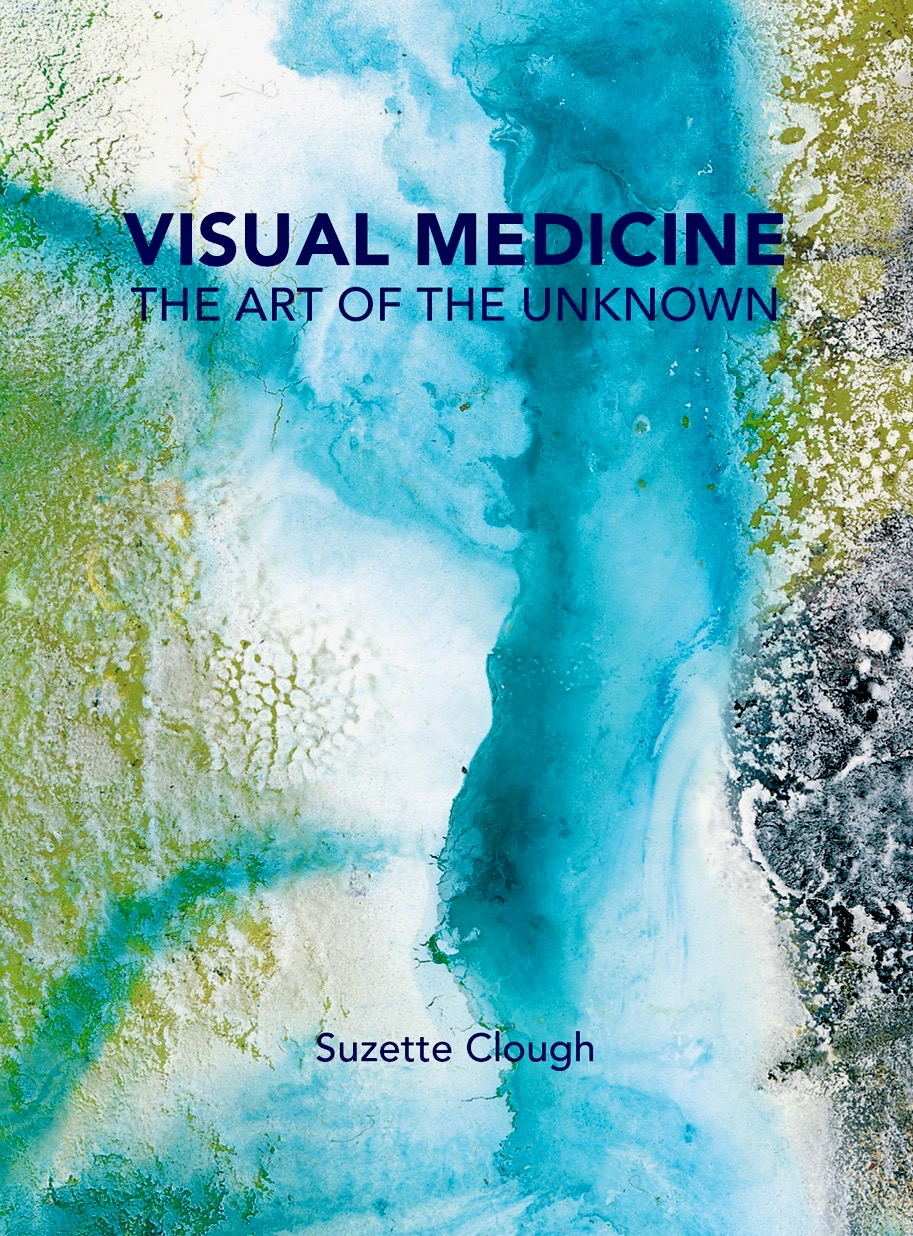
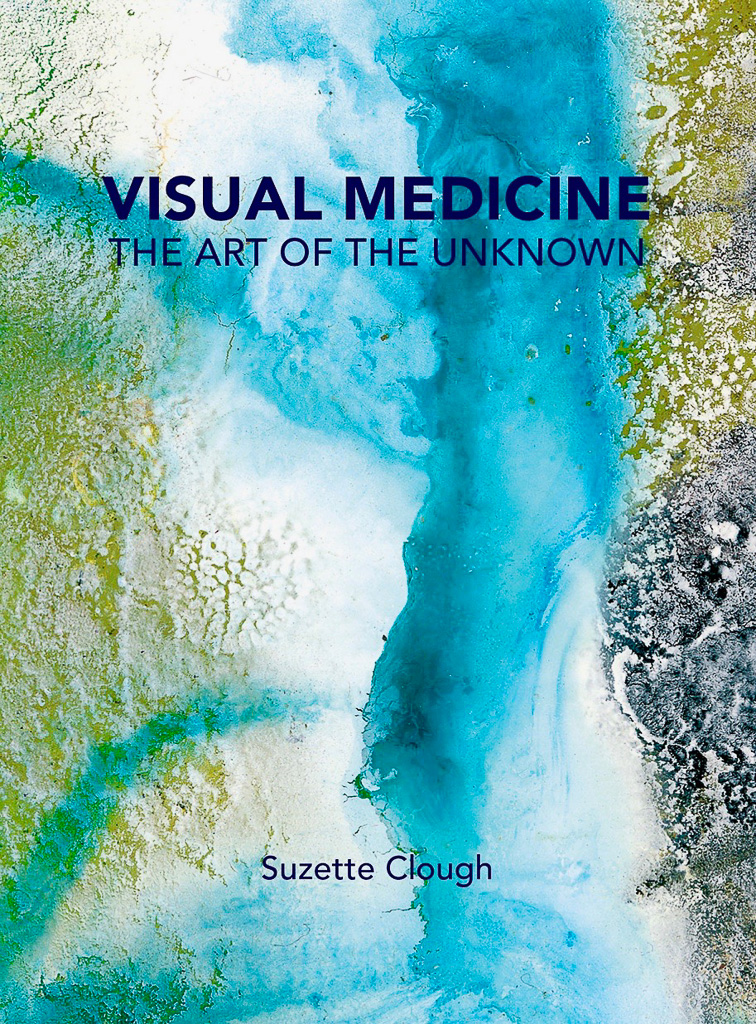
made images smaller

diff --git a/page-VM-shop-soul.html b/page-VM-shop-soul.html
@@ -194,7 +194,7 @@
               <div class="shop-product">
                 <div class="product-thumb">
                   <a href="page-VM-shop-single.html">
-                    <img src="VM_images/shop-1.png" alt="">
+                    <img src="VM_images/shop-1.jpg" alt="">
                   </a>
                   <div class="product-overlay"><a href="#"><span class="add-to-cart-loop-text">Add to cart</span><i class="add-to-cart-loop-icon"></i></a>
                   </div>
@@ -208,7 +208,7 @@
               <div class="shop-product">
                 <div class="product-thumb">
                   <a href="page-VM-shop-single.html">
-                    <img src="VM_images/shop-2.png" alt="">
+                    <img src="VM_images/shop-2.jpg" alt="">
                   </a>
                   <div class="product-overlay"><a href="#"><span class="add-to-cart-loop-text">Add to cart</span><i class="add-to-cart-loop-icon"></i></a>
                   </div>
@@ -222,7 +222,7 @@
               <div class="shop-product">
                 <div class="product-thumb">
                   <a href="page-VM-shop-single.html">
-                    <img src="VM_images/shop-3.png" alt="">
+                    <img src="VM_images/shop-3.jpg" alt="">
                   </a>
                   <div class="product-overlay"><a href="#"><span class="add-to-cart-loop-text">Add to cart</span><i class="add-to-cart-loop-icon"></i></a>
                   </div>
@@ -236,7 +236,7 @@
               <div class="shop-product">
                 <div class="product-thumb">
                   <a href="page-VM-shop-single.html">
-                    <img src="VM_images/shop-4.png" alt="">
+                    <img src="VM_images/shop-4.jpg" alt="">
                   </a>
                   <div class="product-overlay"><a href="#"><span class="add-to-cart-loop-text">Add to cart</span><i class="add-to-cart-loop-icon"></i></a>
                   </div>
@@ -250,7 +250,7 @@
               <div class="shop-product">
                 <div class="product-thumb">
                   <a href="page-VM-shop-single.html">
-                    <img src="VM_images/shop-5.png" alt="">
+                    <img src="VM_images/shop-5.jpg" alt="">
                   </a>
                   <div class="product-overlay"><a href="#"><span class="add-to-cart-loop-text">Add to cart</span><i class="add-to-cart-loop-icon"></i></a>
                   </div>
@@ -264,7 +264,7 @@
               <div class="shop-product">
                 <div class="product-thumb">
                   <a href="page-VM-shop-single.html">
-                    <img src="VM_images/shop-6.png" alt="">
+                    <img src="VM_images/shop-6.jpg" alt="">
                   </a>
                   <div class="product-overlay"><a href="#"><span class="add-to-cart-loop-text">Add to cart</span><i class="add-to-cart-loop-icon"></i></a>
                   </div>
@@ -278,7 +278,7 @@
               <div class="shop-product">
                 <div class="product-thumb">
                   <a href="page-VM-shop-single.html">
-                    <img src="VM_images/shop-1.png" alt="">
+                    <img src="VM_images/shop-1.jpg" alt="">
                   </a>
                   <div class="product-overlay"><a href="#"><span class="add-to-cart-loop-text">Add to cart</span><i class="add-to-cart-loop-icon"></i></a>
                   </div>
@@ -292,7 +292,7 @@
               <div class="shop-product">
                 <div class="product-thumb">
                   <a href="page-VM-shop-single.html">
-                    <img src="VM_images/shop-2.png" alt="">
+                    <img src="VM_images/shop-2.jpg" alt="">
                   </a>
                   <div class="product-overlay"><a href="#"><span class="add-to-cart-loop-text">Add to cart</span><i class="add-to-cart-loop-icon"></i></a>
                   </div>
@@ -306,7 +306,7 @@
               <div class="shop-product">
                 <div class="product-thumb">
                   <a href="page-VM-shop-single.html">
-                    <img src="VM_images/shop-3.png" alt="">
+                    <img src="VM_images/shop-3.jpg" alt="">
                   </a>
                   <div class="product-overlay"><a href="#"><span class="add-to-cart-loop-text">Add to cart</span><i class="add-to-cart-loop-icon"></i></a>
                   </div>
@@ -320,7 +320,7 @@
               <div class="shop-product">
                 <div class="product-thumb">
                   <a href="page-VM-shop-single.html">
-                    <img src="VM_images/shop-4.png" alt="">
+                    <img src="VM_images/shop-4.jpg" alt="">
                   </a>
                   <div class="product-overlay"><a href="#"><span class="add-to-cart-loop-text">Add to cart</span><i class="add-to-cart-loop-icon"></i></a>
                   </div>
@@ -334,7 +334,7 @@
               <div class="shop-product">
                 <div class="product-thumb">
                   <a href="page-VM-shop-single.html">
-                    <img src="VM_images/shop-5.png" alt="">
+                    <img src="VM_images/shop-5.jpg" alt="">
                   </a>
                   <div class="product-overlay"><a href="#"><span class="add-to-cart-loop-text">Add to cart</span><i class="add-to-cart-loop-icon"></i></a>
                   </div>
@@ -348,7 +348,7 @@
               <div class="shop-product">
                 <div class="product-thumb">
                   <a href="page-VM-shop-single.html">
-                    <img src="VM_images/shop-6.png" alt="">
+                    <img src="VM_images/shop-6.jpg" alt="">
                   </a>
                   <div class="product-overlay"><a href="#"><span class="add-to-cart-loop-text">Add to cart</span><i class="add-to-cart-loop-icon"></i></a>
                   </div>

diff --git a/page-VM-shop-single.html b/page-VM-shop-single.html
@@ -165,7 +165,7 @@
         <div class="single-product-details">
           <div class="row">
             <div class="col-md-6">
-              <img src="VM_images/shop-1.png" alt="">
+              <img src="VM_images/shop-1.jpg" alt="">
             </div>
             <div class="col-md-5 col-md-offset-1">
               <div class="title m-0">
@@ -262,7 +262,7 @@
                   <div class="shop-product">
                     <div class="product-thumb">
                       <a href="shop-single.html">
-                        <img src="VM_images/shop-2.png" alt="">
+                        <img src="VM_images/shop-2.jpg" alt="">
                       </a>
                       <div class="product-overlay"><a href="#"><span class="add-to-cart-loop-text">Add to cart</span><i class="add-to-cart-loop-icon"></i></a>
                       </div>
@@ -276,7 +276,7 @@
                   <div class="shop-product">
                     <div class="product-thumb">
                       <a href="shop-single.html">
-                        <img src="VM_images/shop-4.png" alt="">
+                        <img src="VM_images/shop-4.jpg" alt="">
                       </a>
                       <div class="product-overlay"><a href="#"><span class="add-to-cart-loop-text">Add to cart</span><i class="add-to-cart-loop-icon"></i></a>
                       </div>
@@ -290,7 +290,7 @@
                   <div class="shop-product">
                     <div class="product-thumb">
                       <a href="shop-single.html">
-                        <img src="VM_images/shop-5.png" alt="">
+                        <img src="VM_images/shop-5.jpg" alt="">
                       </a>
                       <div class="product-overlay"><a href="#"><span class="add-to-cart-loop-text">Add to cart</span><i class="add-to-cart-loop-icon"></i></a>
                       </div>
@@ -304,7 +304,7 @@
                   <div class="shop-product">
                     <div class="product-thumb">
                       <a href="shop-single.html">
-                        <img src="VM_images/shop-6.png" alt="">
+                        <img src="VM_images/shop-6.jpg" alt="">
                       </a>
                       <div class="product-overlay"><a href="#"><span class="add-to-cart-loop-text">Add to cart</span><i class="add-to-cart-loop-icon"></i></a>
                       </div>

diff --git a/page-VM-app.html b/page-VM-app.html
@@ -207,7 +207,7 @@
             </div>
             <div class="col-sm-4">
               <figure>
-                <img src="VM_images/iphone1.png" alt="">
+                <img src="VM_images/iphone1.jpg" alt="">
               </figure>
             </div>
             <div class="col-sm-4">
